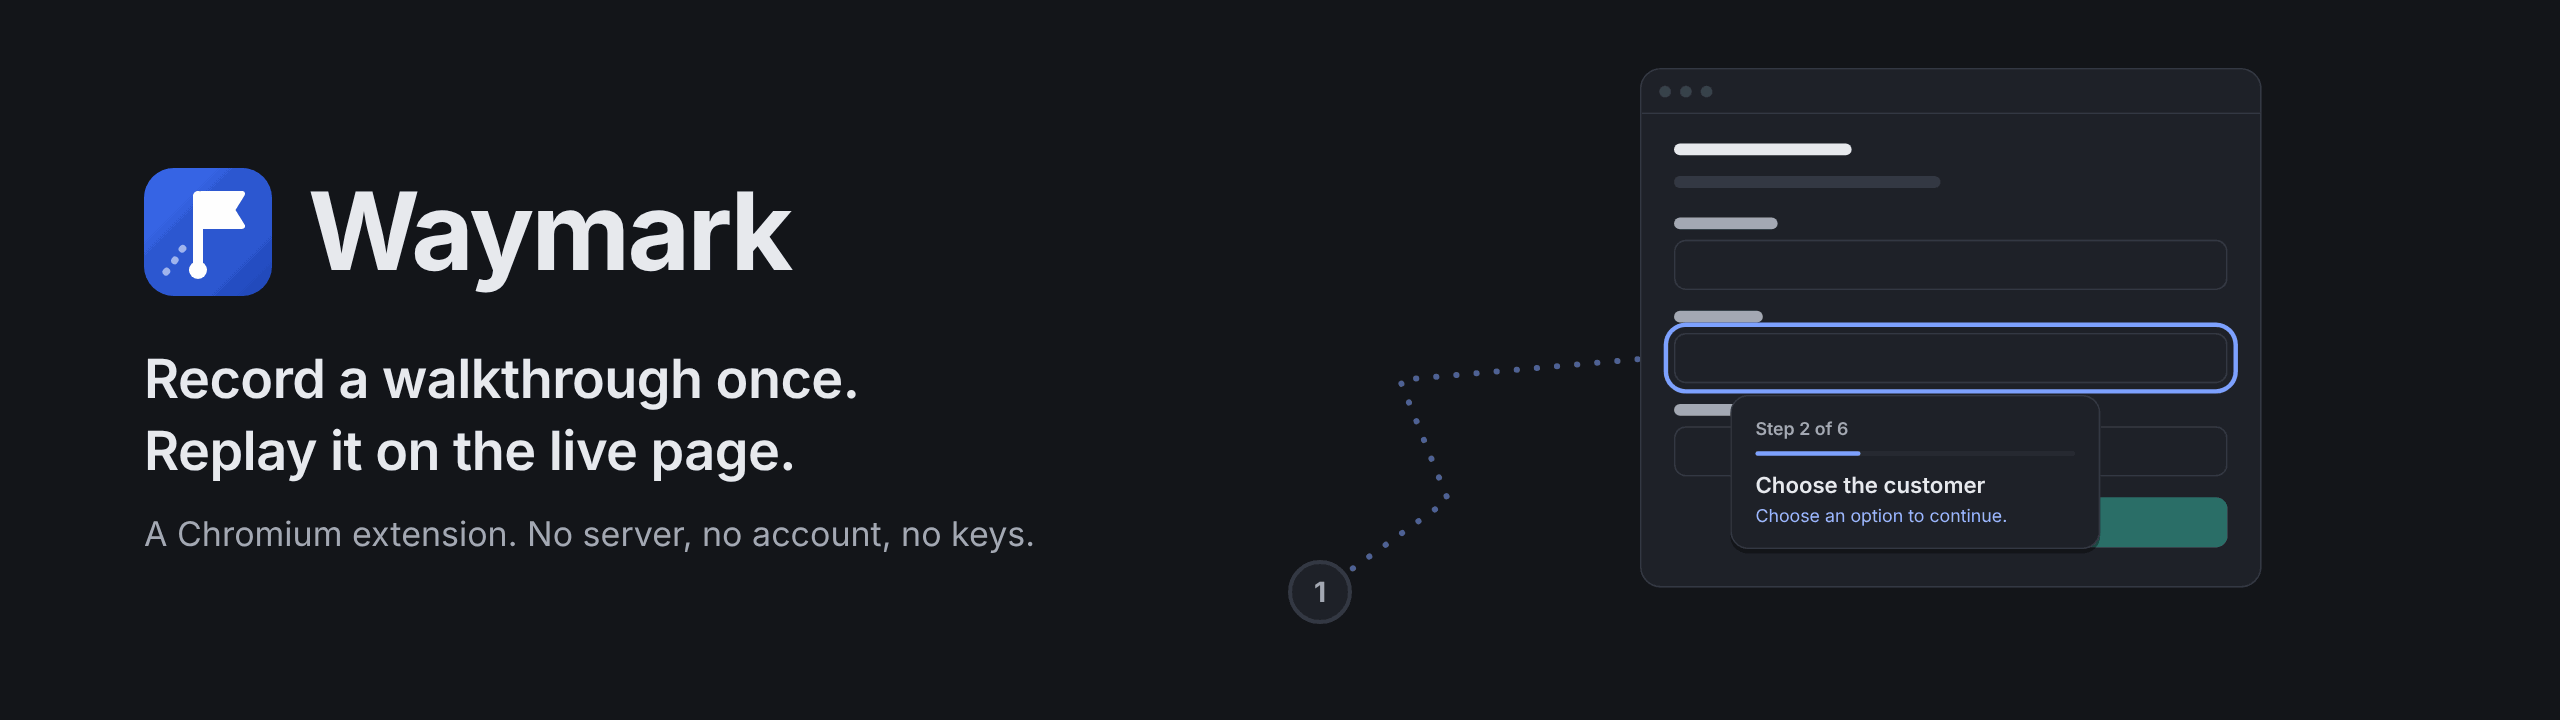
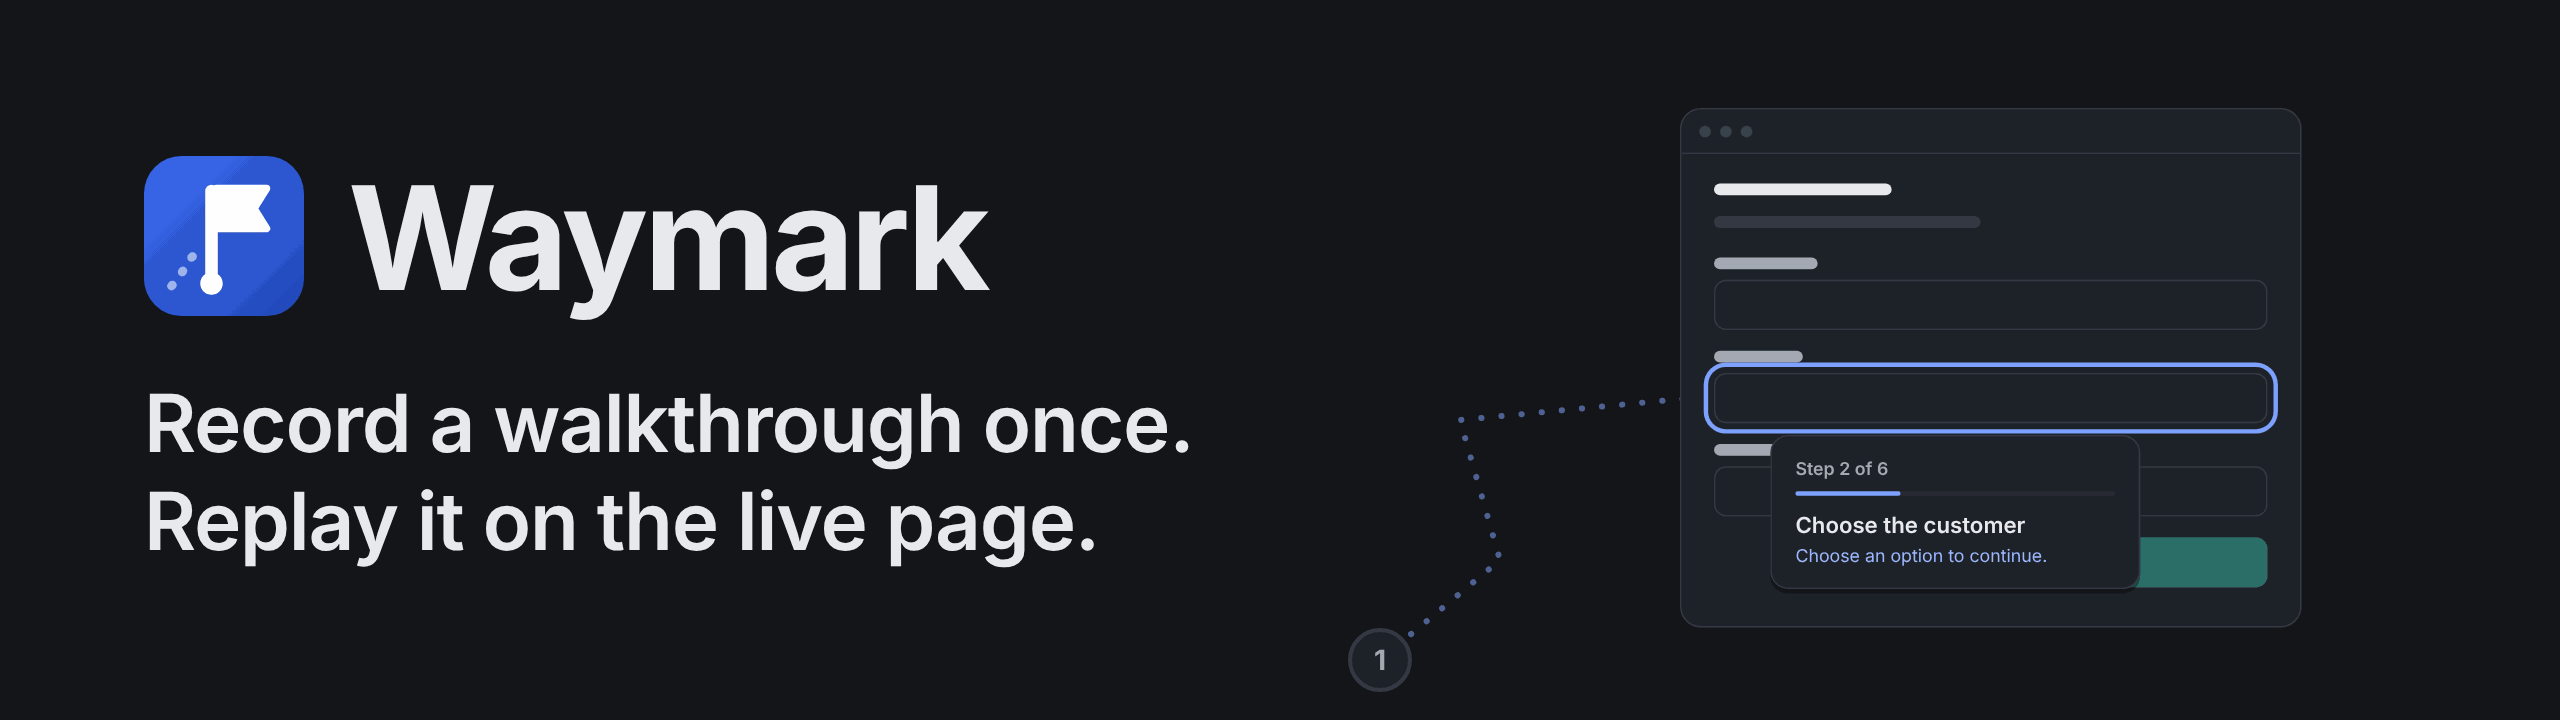
README graphics: fixes from the independent review (#109; D230)
- Hero and posters readable on phones: larger type; posters are a title and a picture.
- Play shot: the panel at the same step as the tooltip, without the HD voice offer.
- How-to shot taller; captions and alt text match the pictures; neutral window dots.

Claude-Session: https://claude.ai/code/session_012ZwsG5AHnEyzqomm8LhoTZ

diff --git a/test/shots/readme.spec.ts b/test/shots/readme.spec.ts
@@ -22,6 +22,8 @@ const OUT = join(process.cwd(), 'artifacts', 'readme', 'raw');
 /** CSS sizes: the page beside a 400 px side panel in a 1440 × 760 window. */
 const PAGE = { width: 1040, height: 720 };
 const PANEL = { width: 400, height: 720 };
+/** The how-to preview is shot taller, so its first step's picture is whole. */
+const HOWTO_HEIGHT = 980;
 
 const test = base.extend<object, { site: { port: number; main: string; other: string } }>({
   // A fixed port, so the panel shows the same address in every shot.
@@ -133,8 +135,10 @@ test('README screenshots', async ({ context, ext, site, extensionId }) => {
   await app.waitForTimeout(700);
   await app.getByLabel('Item').click();
   await app.keyboard.type('Sourdough workshop');
+  await app.waitForTimeout(700);
   await app.getByLabel('Amount').click();
   await app.keyboard.type('480');
+  await app.waitForTimeout(700);
   await choose(app, 'Payment terms', 'Net 3');
   await app.waitForTimeout(700);
   // No caret or selected text in the picture.
@@ -187,6 +191,14 @@ test('README screenshots', async ({ context, ext, site, extensionId }) => {
   await expect.poll(() => marker(app, 'player'), { timeout: 15_000 }).toMatch(/^drawn:1/);
   await shot(app, 'play-page');
   await shot(app, 'clip-1');
+  // The panel at the same step, without the HD voice offer (answered "Not now").
+  await panel.reload();
+  await expect(panel.getByTestId('run-status')).toBeVisible();
+  const later = panel.getByTestId('hd-offer-later');
+  if (await later.isVisible().catch(() => false)) await later.click();
+  await expect(panel.getByTestId('run-step')).toContainText('Choose the customer');
+  await shot(panel, 'play-panel');
+  await app.bringToFront();
   await choose(app, 'Customer', 'Tansy');
   await expect.poll(() => marker(app, 'player'), { timeout: 15_000 }).toMatch(/^drawn:2/);
   await shot(app, 'clip-2');
@@ -194,9 +206,6 @@ test('README screenshots', async ({ context, ext, site, extensionId }) => {
   await app.getByLabel('Item').press('Tab');
   await expect.poll(() => marker(app, 'player'), { timeout: 15_000 }).toMatch(/^drawn:3/);
   await shot(app, 'clip-3');
-  await panel.reload();
-  await expect(panel.getByTestId('run-status')).toBeVisible();
-  await shot(panel, 'play-panel');
   await ext.message('run.stop', { tabId });
 
   // 4. The "?" launcher with its search: six guides or more for the page (D170).
@@ -222,7 +231,7 @@ test('README screenshots', async ({ context, ext, site, extensionId }) => {
   const [preview] = await Promise.all([context.waitForEvent('page'), panel.getByTestId('open-preview').click()]);
   await preview.waitForURL(/howto\.html/);
   await expect(preview.getByTestId('howto-preview')).toHaveAttribute('data-ready', 'yes', { timeout: 15_000 });
-  await fit(context, preview, PAGE.width, PAGE.height);
+  await fit(context, preview, PAGE.width, HOWTO_HEIGHT);
   await shot(preview, 'howto-page');
 
   writeFileSync(join(OUT, 'done.txt'), new Date().toISOString() + '\n');

diff --git a/README.md b/README.md
@@ -8,10 +8,6 @@
 Waymark is a Chromium (Manifest V3) extension that records click-by-click walkthroughs of a web app and replays them on the live page. It spotlights the real element, shows a note and can read it aloud. Guides hold no screenshots (an optional, off-by-default screenshot per step exists only for the printable how-to and stays on the device), there are no servers and no account, and it costs $0 to run.
 
 <p align="center">
-  <img src="docs/assets/clip-play.gif" alt="A guide playing on a made-up invoicing app: the spotlight moves from the New invoice button to the Customer field, then to Item, with a tooltip that counts the steps." width="100%">
-</p>
-
-<p align="center">
   <picture><source media="(prefers-color-scheme: dark)" srcset="docs/assets/poster-record-dark.png"><img src="docs/assets/poster-record-light.png" alt="Record: do the task once; every click, choice and field becomes a step." width="49%"></picture>
   <picture><source media="(prefers-color-scheme: dark)" srcset="docs/assets/poster-play-dark.png"><img src="docs/assets/poster-play-light.png" alt="Play: learners follow a spotlight on the real page." width="49%"></picture>
   <picture><source media="(prefers-color-scheme: dark)" srcset="docs/assets/poster-share-dark.png"><img src="docs/assets/poster-share-light.png" alt="Share: a guide file, a link that starts it, or a team library URL." width="49%"></picture>
@@ -29,6 +25,8 @@ Waymark is a Chromium (Manifest V3) extension that records click-by-click walkth
 
 Screenshots of the made-up "Demo Books" app in the test fixtures, re-shot each release with `pnpm shots:readme`.
 
+![A guide playing on a made-up invoicing app, four steps: the spotlight moves from the New invoice button to the Customer field, then Item, then Amount, with a tooltip that counts the steps.](docs/assets/clip-play.gif)
+
 **Record.** While you record, an outline shows what a click will record, and the panel lists each step.
 
 ![Recording a guide: the page with an outline on the Create invoice button and the REC pill, and the side panel listing five recorded steps.](docs/assets/shot-record.png)
@@ -43,11 +41,11 @@ Screenshots of the made-up "Demo Books" app in the test fixtures, re-shot each r
 
 **Find.** The `?` button on the page lists the guides for that page, with a search once there are many.
 
-![The ? launcher open on the dashboard, with the search box holding "pay" and two matching guides.](docs/assets/shot-launcher.png)
+<p align="center"><img src="docs/assets/shot-launcher.png" alt="The ? launcher open on the dashboard, with the search box holding &quot;pay&quot; and two matching guides." width="72%"></p>
 
-**Print.** Export a printable how-to, with a picture of each step taken while recording.
+**Print.** Export a printable how-to. With screenshots turned on while recording, steps get a picture with their element outlined; you can add a missing one from the editor.
 
-![The printable how-to preview: a step's picture with the Customer field outlined and numbered.](docs/assets/shot-howto.png)
+<p align="center"><img src="docs/assets/shot-howto.png" alt="The printable how-to preview: step 1 has no picture yet, step 2's picture has the Customer field outlined and numbered." width="72%"></p>
 
 ## Install
 

diff --git a/docs/BRAND.md b/docs/BRAND.md
@@ -32,7 +32,7 @@ Flat colours only. The one gradient is the mark's tile. No photos, no stock imag
 
 - **Inter** (SIL Open Font License 1.1), bundled in `assets/fonts/inter/` with its licence. Weights 400, 500, 600 and 700. Headings 600–700 with slightly tight tracking; body 400.
 - **Lucide** icons (ISC), from the `lucide` package the extension already uses. Stroke 2, round caps.
-- The recurring motif is the mark's dotted trail: numbered waypoints joined by a dotted line, ending in a spotlit element.
+- The recurring motif is the mark's dotted trail: a dotted line from a numbered waypoint to a spotlit element.
 
 ## The graphics
 
@@ -40,10 +40,10 @@ All in `docs/assets/`, each under 300 KB (`test/unit/readme-assets.test.ts` chec
 
 | File | What |
 | --- | --- |
-| `hero-light.png`, `hero-dark.png` | README banner, 1280 × 360 at 2× |
-| `poster-{record,play,share,private}-{light,dark}.png` | Feature cards, 640 × 400 at 2× |
+| `hero-light.png`, `hero-dark.png` | README banner, 1280 × 400 at 2× |
+| `poster-{record,play,share,private}-{light,dark}.png` | Feature cards, 640 × 400 at 2×: a title and a picture; the README's bullets carry the words |
 | `shot-record.png`, `shot-play.png`, `shot-editor.png`, `shot-launcher.png`, `shot-howto.png` | Screenshots in a drawn browser window |
-| `clip-play.gif` | A guide playing, four steps |
+| `clip-play.gif` | A guide playing, four steps, 1× |
 | `social-preview.png` | GitHub social preview, 1280 × 640 (upload it in the repository's Settings → General → Social preview) |
 | `store/store-small-440x280.png`, `store/store-marquee-1400x560.png` | Chrome Web Store tiles, for a later listing (D58) |
 
